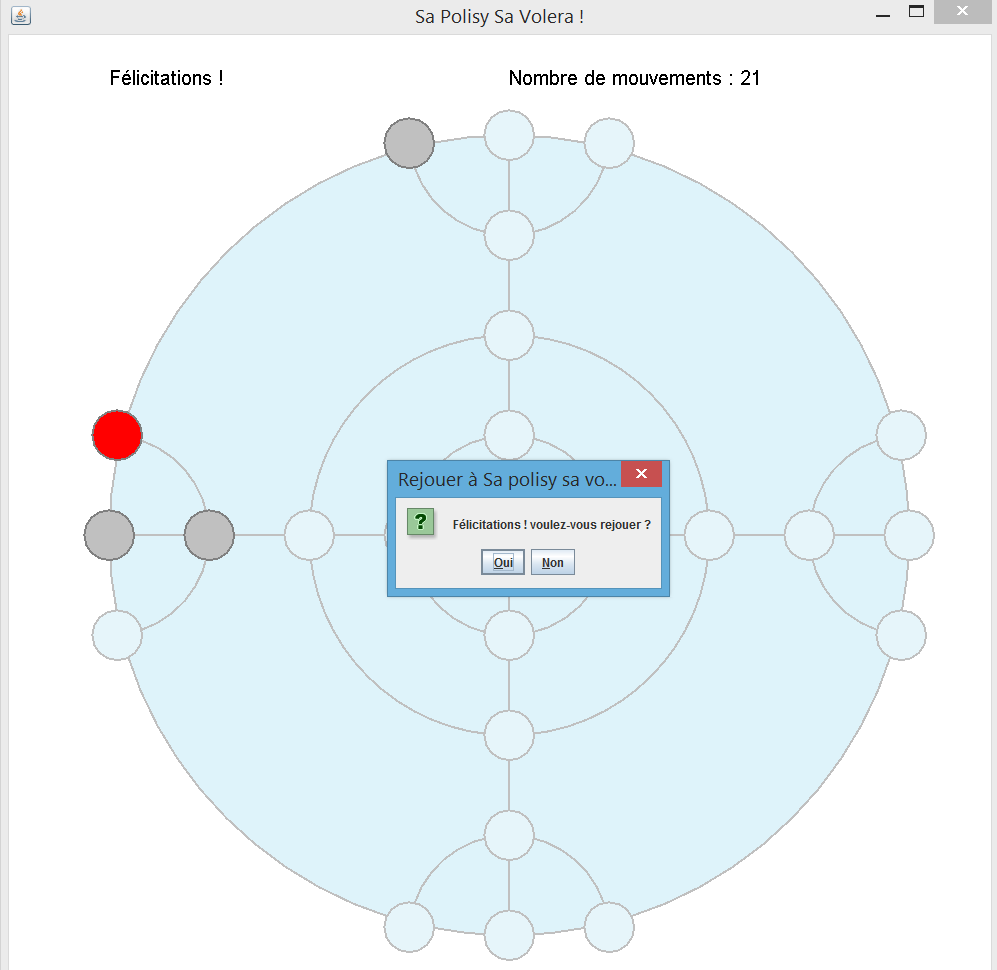
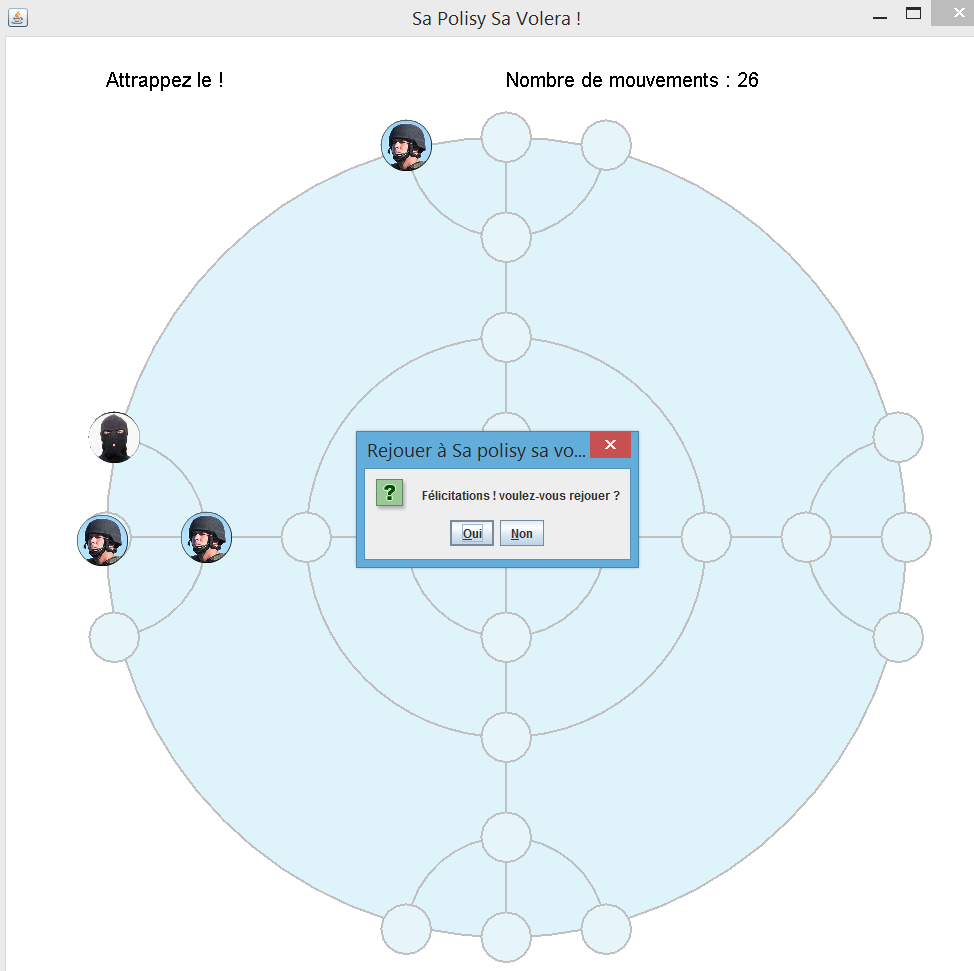
Amelioration des images des policiers et du voleur

diff --git a/sapolisysavolera-core/src/main/java/mg/sapolisysavolera/core/entity/Thief.java b/sapolisysavolera-core/src/main/java/mg/sapolisysavolera/core/entity/Thief.java
@@ -16,6 +16,10 @@ package mg.sapolisysavolera.core.entity;
 
 import java.awt.Color;
 import java.awt.Graphics2D;
+import java.io.File;
+import java.io.IOException;
+
+import javax.imageio.ImageIO;
 /**
  * Mg : Ity rakitra ity dia ampahany amin'ny tetikasa saPolisySaVolera
  * Fr : Ce fichier fait partie du projet saPolisySaVolera
@@ -29,6 +33,7 @@ import java.awt.Graphics2D;
  * @version r-1.0
  */
 public class Thief extends Entity {
+	
 	private static final long serialVersionUID = 6215857836744340808L;
 
 	private static final Color THIEF_BACKGROUND_COLOR = Color.RED;
@@ -36,6 +41,11 @@ public class Thief extends Entity {
 	public Thief() {
 		super();
 		background = THIEF_BACKGROUND_COLOR;
+		try {
+			image = ImageIO.read(new File("spsv-pix/thief.png"));
+		} catch (IOException e) {
+			e.printStackTrace();
+		}
 	}
 
 	/**
@@ -52,6 +62,10 @@ public class Thief extends Entity {
 		drawer.setColor(foreground);
 		drawer.drawOval(rectangle.x, rectangle.y, rectangle.width,
 				rectangle.height);
+		
+		if(image != null) {
+			drawer.drawImage(image, rectangle.x, rectangle.y, null);
+		}
 
 		drawer.setColor(lastColor);
 

diff --git a/sapolisysavolera-core/src/main/java/mg/sapolisysavolera/core/entity/Police.java b/sapolisysavolera-core/src/main/java/mg/sapolisysavolera/core/entity/Police.java
@@ -16,6 +16,10 @@ package mg.sapolisysavolera.core.entity;
 
 import java.awt.Color;
 import java.awt.Graphics2D;
+import java.io.File;
+import java.io.IOException;
+
+import javax.imageio.ImageIO;
 /**
  * Mg : Ity rakitra ity dia ampahany amin'ny tetikasa saPolisySaVolera
  * Fr : Ce fichier fait partie du projet saPolisySaVolera
@@ -31,6 +35,15 @@ import java.awt.Graphics2D;
 public class Police extends Entity {
 
 	private static final long serialVersionUID = -3990878073208631580L;
+	
+	public Police() {
+		super();
+		try {
+			image = ImageIO.read(new File("spsv-pix/police.png"));
+		} catch (IOException e) {
+			e.printStackTrace();
+		}
+	}
 
 	/**
 	 * {@inheritDoc}
@@ -44,8 +57,12 @@ public class Police extends Entity {
 				rectangle.height);
 
 		drawer.setColor(foreground);
-		drawer.drawOval(rectangle.x, rectangle.y, rectangle.width,
-				rectangle.height);
+//		drawer.drawOval(rectangle.x, rectangle.y, rectangle.width,
+//				rectangle.height);
+		
+		if(image != null) {
+			drawer.drawImage(image, rectangle.x, rectangle.y, null);
+		}
 
 		drawer.setColor(lastColor);
 	}

diff --git a/sapolisysavolera-core/src/main/java/mg/sapolisysavolera/core/entity/Entity.java b/sapolisysavolera-core/src/main/java/mg/sapolisysavolera/core/entity/Entity.java
@@ -18,6 +18,7 @@ import java.awt.Color;
 import java.awt.Graphics2D;
 import java.awt.Point;
 import java.awt.Rectangle;
+import java.awt.image.BufferedImage;
 import java.io.Serializable;
 
 /**
@@ -51,6 +52,8 @@ public abstract class Entity implements Movable, Serializable {
 	protected Color background;
 	
 	protected int id;
+	
+	protected  BufferedImage image;
 	
 	private static int idGenerator;
 	
